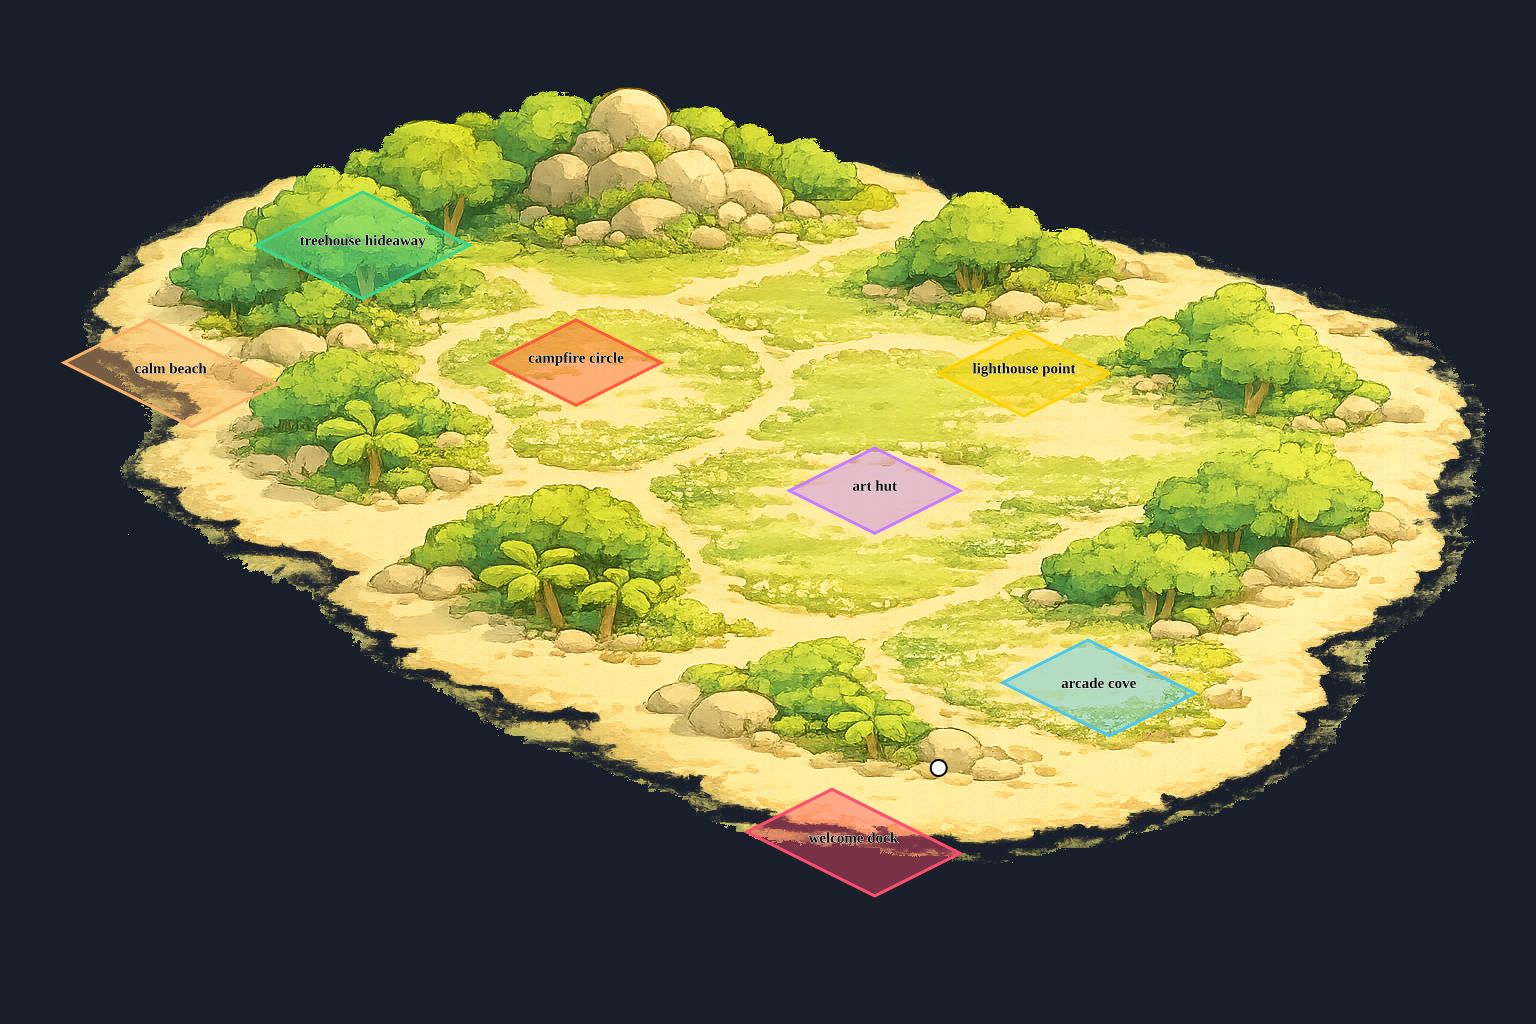
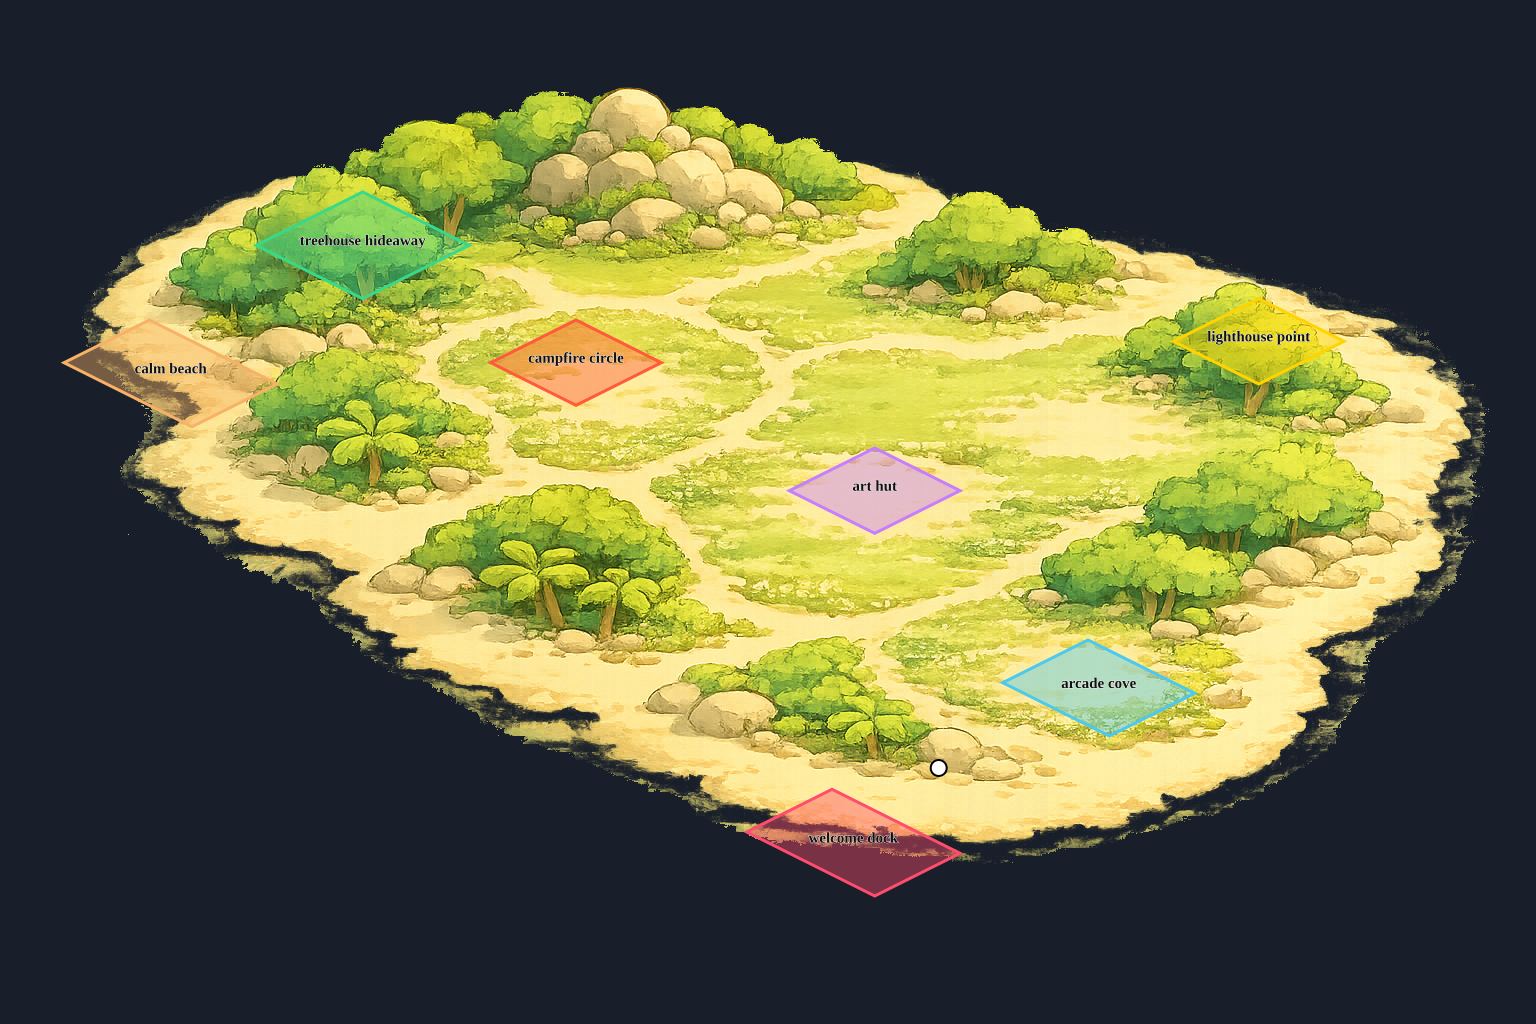
M4: wire illustrated Home Island in as the ground sprite
- defaultLayout.ts: replace the procedural ellipse silhouette with landCells
  derived from the painted art (1549 cells, 56x44), the 7 approved zone
  positions, spawn (44,33), no procedural decorations, and a terrainImage
  registration (home-island.png, scale 1.5, world origin (-1056,112)).
- types.ts: add optional LayoutConfig.terrainImage (url + origin + scale).
- SceneRenderer: load the art via Assets, pin it as a world-space ground
  sprite below the props, and skip the procedural terrain/biome/landMask/
  painted-wave layers when it's present. Sky/sea backdrop and the code-drawn
  zone landmarks stay. Falls back to procedural terrain if the image fails.
- bundle the cutout at src/assets/home-island.png.

Demo typechecks and builds. Walk-grid lines up with the painted coastline via
the shared registration used to derive landCells.

https://claude.ai/code/session_01Wg4SB3qoZtNZLrLu8MFwHq

Changed region(s): [[0.75, 0.2812, 0.875, 0.375], [0.5938, 0.3125, 0.7188, 0.4062]]

diff --git a/packages/island-scene/src/defaultLayout.ts b/packages/island-scene/src/defaultLayout.ts
@@ -1,108 +1,100 @@
-import type {
-  DecorationPlacement,
-  GridPosition,
-  LayoutConfig,
-  ZoneInstance,
-} from "./types";
-import { biomeAt, landContext } from "./render/biome";
+import type { GridPosition, LayoutConfig, ZoneInstance } from "./types";
 
 /**
- * Sample island used by the demo harness — a large, organic open-world island
- * with natural biomes (forest, mountain, meadow, beach shore). Hosts pass
- * their own LayoutConfig (mirrors islands.layout_config); this is a
- * representative default.
+ * Home Island — the finished illustrated terrain. The walkable grid, zone
+ * positions, spawn and dock are all conformed to the painted art
+ * (tools/island-art/home-island.png). See tools/island-art/README.md for the
+ * registration math: grid cell (gx,gy) projects to world pixels via iso.ts,
+ * and the art sprite is pinned with the same ART_SCALE + world origin so the
+ * invisible walk-grid lines up with the painted coastline.
  */
 
-const GRID_W = 54;
-const GRID_H = 36;
-const CX = 27;
-const CY = 18;
-const RX = 24;
-const RY = 16;
+const GRID_W = 56;
+const GRID_H = 44;
 
-// Organic silhouette: ellipse with multi-frequency coastal wobble for bays
-// and headlands (no hard edges, no square corners).
-function isLandCell(x: number, y: number): boolean {
-  const ang = Math.atan2(y - CY, x - CX);
-  const wobble =
-    0.06 * Math.sin(ang * 3 + 0.5) +
-    0.05 * Math.sin(ang * 5 + 2.1) +
-    0.04 * Math.sin(x * 0.5) * Math.cos(y * 0.4);
-  const nx = (x - CX) / RX;
-  const ny = (y - CY) / RY;
-  return nx * nx + ny * ny <= 1.04 + wobble;
-}
+// Land footprint as per-row inclusive x-ranges, derived by sampling the painted
+// island's opacity through the iso projection (tools/island-art/derive-grid.mjs).
+const LAND_ROWS: Array<[number, Array<[number, number]>]> = [
+  [2, [[34,34]]],
+  [3, [[30,39]]],
+  [4, [[26,39]]],
+  [5, [[23,40]]],
+  [6, [[19,41]]],
+  [7, [[12,12], [15,41]]],
+  [8, [[8,8], [10,42], [44,44]]],
+  [9, [[6,44]]],
+  [10, [[5,44]]],
+  [11, [[4,45]]],
+  [12, [[4,47]]],
+  [13, [[4,46]]],
+  [14, [[3,48]]],
+  [15, [[3,47]]],
+  [16, [[2,47]]],
+  [17, [[2,47]]],
+  [18, [[2,47], [49,49]]],
+  [19, [[3,47], [49,50]]],
+  [20, [[2,49]]],
+  [21, [[2,50]]],
+  [22, [[2,50]]],
+  [23, [[2,51]]],
+  [24, [[2,51]]],
+  [25, [[2,51]]],
+  [26, [[2,53]]],
+  [27, [[2,51], [53,53]]],
+  [28, [[2,51], [53,53]]],
+  [29, [[3,51], [53,53]]],
+  [30, [[3,51]]],
+  [31, [[3,51]]],
+  [32, [[4,52]]],
+  [33, [[5,50]]],
+  [34, [[11,49]]],
+  [35, [[10,49]]],
+  [36, [[11,48]]],
+  [37, [[11,47]]],
+  [38, [[11,46]]],
+  [39, [[13,13], [15,15], [17,17], [20,33], [35,44], [46,46]]],
+  [40, [[19,21], [25,32], [35,38], [40,41], [44,44]]],
+  [41, [[25,25], [27,27], [30,30], [38,39], [41,41]]],
+];
 
 const landCells: GridPosition[] = (() => {
   const cells: GridPosition[] = [];
-  for (let y = 0; y < GRID_H; y++) {
-    for (let x = 0; x < GRID_W; x++) {
-      if (isLandCell(x, y)) cells.push({ x, y });
+  for (const [y, ranges] of LAND_ROWS) {
+    for (const [x0, x1] of ranges) {
+      for (let x = x0; x <= x1; x++) cells.push({ x, y });
     }
   }
   return cells;
 })();
 
-// Seven landmark zones arranged like the Engage Island map: lighthouse up
-// top, dock at the bottom (arrival point), campfire in the middle.
+// Seven landmark zones, snapped onto open clearings in the illustration.
 export const sampleZones: ZoneInstance[] = [
-  { key: "lighthouse_point",   displayName: "Lighthouse Point",   skinName: "Beacon Point",       gridPosition: { x: 25, y: 4 },  footprint: { w: 4, h: 4 }, unlocked: true  },
-  { key: "treehouse_hideaway", displayName: "Treehouse Hideaway", skinName: "Treetop Hideaway",   gridPosition: { x: 11, y: 9 },  footprint: { w: 5, h: 5 }, unlocked: true  },
-  { key: "art_hut",            displayName: "Art Hut",            skinName: "Paint Cabin",        gridPosition: { x: 38, y: 11 }, footprint: { w: 4, h: 4 }, unlocked: true  },
-  { key: "campfire_circle",    displayName: "Campfire Circle",    skinName: "Marshmallow Ring",   gridPosition: { x: 25, y: 16 }, footprint: { w: 4, h: 4 }, unlocked: true  },
-  { key: "arcade_cove",        displayName: "Arcade Cove",        skinName: "Arcade Cove",        gridPosition: { x: 40, y: 21 }, footprint: { w: 5, h: 4 }, unlocked: true  },
-  { key: "calm_beach",         displayName: "Calm Beach",         skinName: "Calm Beach",         gridPosition: { x: 9,  y: 23 }, footprint: { w: 6, h: 4 }, unlocked: true  },
-  { key: "welcome_dock",       displayName: "Welcome Dock",       skinName: "Welcome Dock",       gridPosition: { x: 24, y: 28 }, footprint: { w: 6, h: 4 }, unlocked: true  },
+  { key: "lighthouse_point", displayName: "Lighthouse Point", skinName: "Beacon Point", gridPosition: { x: 30, y: 4 }, footprint: { w: 4, h: 4 }, unlocked: true },
+  { key: "treehouse_hideaway", displayName: "Treehouse Hideaway", skinName: "Treetop Hideaway", gridPosition: { x: 4, y: 20 }, footprint: { w: 5, h: 5 }, unlocked: true },
+  { key: "art_hut", displayName: "Art Hut", skinName: "Paint Cabin", gridPosition: { x: 28, y: 20 }, footprint: { w: 4, h: 4 }, unlocked: true },
+  { key: "campfire_circle", displayName: "Campfire Circle", skinName: "Marshmallow Ring", gridPosition: { x: 15, y: 21 }, footprint: { w: 4, h: 4 }, unlocked: true },
+  { key: "arcade_cove", displayName: "Arcade Cove", skinName: "Arcade Cove", gridPosition: { x: 42, y: 24 }, footprint: { w: 5, h: 4 }, unlocked: true },
+  { key: "calm_beach", displayName: "Calm Beach", skinName: "Calm Beach", gridPosition: { x: 5, y: 31 }, footprint: { w: 6, h: 4 }, unlocked: true },
+  { key: "welcome_dock", displayName: "Welcome Dock", skinName: "Welcome Dock", gridPosition: { x: 43, y: 37 }, footprint: { w: 6, h: 4 }, unlocked: true },
 ];
 
-// Spawn just inland of the dock — the arrival sequence drops the avatar here.
-const spawnPoint: GridPosition = { x: 27, y: 25 };
-
-// Biome-aware scatter: dense trees in the forest, rocks on the mountain,
-// mushrooms in shade, shells along the beach, sparse elsewhere.
-const decorations: DecorationPlacement[] = (() => {
-  const ctx = landContext({ w: GRID_W, h: GRID_H }, landCells);
-  const blocked = new Set<string>();
-  for (const z of sampleZones) {
-    for (let dx = -1; dx <= z.footprint.w; dx++) {
-      for (let dy = -1; dy <= z.footprint.h; dy++) {
-        blocked.add(`${z.gridPosition.x + dx},${z.gridPosition.y + dy}`);
-      }
-    }
-  }
-  blocked.add(`${spawnPoint.x},${spawnPoint.y}`);
-
-  let seed = 9281;
-  const rnd = () => (seed = (seed * 1103515245 + 12345) & 0x7fffffff) / 0x7fffffff;
-
-  const out: DecorationPlacement[] = [];
-  let id = 0;
-  for (const c of landCells) {
-    const key = `${c.x},${c.y}`;
-    if (blocked.has(key)) continue;
-    // Keep props off the very coast so they sit on solid ground.
-    if (!isLandCell(c.x + 1, c.y) || !isLandCell(c.x, c.y + 1) || !isLandCell(c.x - 1, c.y)) continue;
-
-    const biome = biomeAt(c.x, c.y, ctx);
-    const r = rnd();
-    let kind: string | null = null;
-    if (biome === "forest") kind = r < 0.5 ? "tree" : r < 0.6 ? "mushroom" : null;
-    else if (biome === "mountain") kind = r < 0.45 ? "rock" : null;
-    else if (biome === "beach") kind = r < 0.08 ? "shell" : null;
-    else if (biome === "meadow") kind = r < 0.08 ? "tree" : null;
-    else kind = r < 0.12 ? (r < 0.08 ? "tree" : "rock") : null;
-    if (!kind) continue;
-
-    blocked.add(key);
-    out.push({ id: `${kind}-${id++}`, kind, position: { x: c.x, y: c.y }, scale: 0.85 + rnd() * 0.5 });
-  }
-  return out;
-})();
+// Spawn just inland (up-screen) of the welcome dock — the arrival sequence
+// drops the avatar here after the boat pulls up.
+const spawnPoint: GridPosition = { x: 44, y: 33 };
 
 export const sampleLayout: LayoutConfig = {
   grid: { w: GRID_W, h: GRID_H },
   landCells,
   spawnPoint,
-  pictureFrameAnchor: { x: 27, y: 14 },
-  decorations,
+  // Reserved invisible anchor (future picture-frame video dock).
+  pictureFrameAnchor: { x: 27, y: 23 },
+  // The illustration is the scenery — no procedural decoration scatter.
+  decorations: [],
+  // Illustrated ground sprite, pinned to the grid via the registration math.
+  terrainImage: {
+    url: new URL("./assets/home-island.png", import.meta.url).href,
+    originX: -1056,
+    originY: 112,
+    scale: 1.5,
+  },
 };

diff --git a/packages/island-scene/src/render/SceneRenderer.ts b/packages/island-scene/src/render/SceneRenderer.ts
@@ -1,11 +1,13 @@
 import {
   Application,
+  Assets,
   Container,
   type FederatedPointerEvent,
   Graphics,
   Rectangle,
   Sprite,
   Text,
+  type Texture,
   type Ticker,
 } from "pixi.js";
 import type {
@@ -106,6 +108,9 @@ export class SceneRenderer {
   private shimmer = new Graphics();
   /** Camera-panned world (Mode 1 — world map). */
   private world = new Container();
+  /** Finished illustrated ground sprite (replaces the procedural terrain when
+   *  layout.terrainImage is set); pinned into world space via the registration. */
+  private ground?: Sprite;
   /** Smooth island blob (base fill + cliff + bold coast outline). */
   private terrain = new Graphics();
   /** Per-tile biome coloring, masked to the smooth coastline. */
@@ -271,6 +276,8 @@ export class SceneRenderer {
     this.textures = new ProgrammaticTextureProvider(this.app.renderer);
     this.textures.refresh(theme.palette);
     this.opts.onLoadProgress?.(0.6);
+
+    await this.loadGround();
 
     this.rebuild();
     this.drawFadeRect();
@@ -648,9 +655,51 @@ export class SceneRenderer {
     this.sky.ellipse(w / 2, h / 2, vig * 0.62, vig * 0.62).fill({ color: 0xffd98a, alpha: 0.05 });
   }
 
+  /** Load the finished terrain illustration and pin it into the world. */
+  private async loadGround(): Promise<void> {
+    const img = this.layout.terrainImage;
+    if (!img) return;
+    let tex: Texture;
+    try {
+      tex = (await Assets.load(img.url)) as Texture;
+    } catch (err) {
+      // Fall back to the procedural terrain if the art fails to load.
+      console.warn("[island-scene] terrainImage failed to load; using code terrain", err);
+      return;
+    }
+    if (this.destroyed) return;
+    const spr = new Sprite(tex);
+    spr.anchor.set(0, 0);
+    spr.eventMode = "none";
+    this.ground = spr;
+    // Sits at the very bottom of the world so props/avatars draw on top.
+    this.world.addChildAt(spr, 0);
+    this.positionGround();
+  }
+
+  /** Pin the ground sprite so art-pixel (0,0) → world (originX, originY). */
+  private positionGround(): void {
+    const img = this.layout.terrainImage;
+    if (!this.ground || !img) return;
+    this.ground.position.set(img.originX, img.originY);
+    this.ground.scale.set(img.scale);
+  }
+
   private drawTerrain(): void {
     const { palette } = this.theme;
     const grid = this.layout.grid;
+
+    // Finished illustration in use: it IS the ground. Skip the procedural
+    // terrain/biome/coast layers entirely (and the painted waves, which key off
+    // coastLoop) — the engine still renders its animated sky/sea backdrop.
+    if (this.layout.terrainImage && this.ground) {
+      this.terrain.clear();
+      this.biomeLayer.clear();
+      this.landMask.clear();
+      this.coastLoop = [];
+      this.positionGround();
+      return;
+    }
 
     // The island as one smooth organic blob (no grid steps at the coast).
     this.coastLoop = islandOutline(this.layout.landCells);

diff --git a/packages/island-scene/src/types.ts b/packages/island-scene/src/types.ts
@@ -124,6 +124,20 @@ export interface LayoutConfig {
   pictureFrameAnchor?: GridPosition;
   /** Avatar spawn point when no position is supplied. */
   spawnPoint: GridPosition;
+  /**
+   * Optional finished terrain illustration. When present, the renderer pins
+   * this image into the world as the ground sprite (replacing the procedural
+   * terrain blob) and skips drawing the code terrain layers. The art is placed
+   * so that art-pixel (0,0) lands at world pixel (originX, originY) and one art
+   * pixel spans `scale` world pixels — the same registration used to derive
+   * `landCells`, so the painted coastline lines up with the walk-grid.
+   */
+  terrainImage?: {
+    url: string;
+    originX: number;
+    originY: number;
+    scale: number;
+  };
 }
 
 export interface DecorationPlacement {